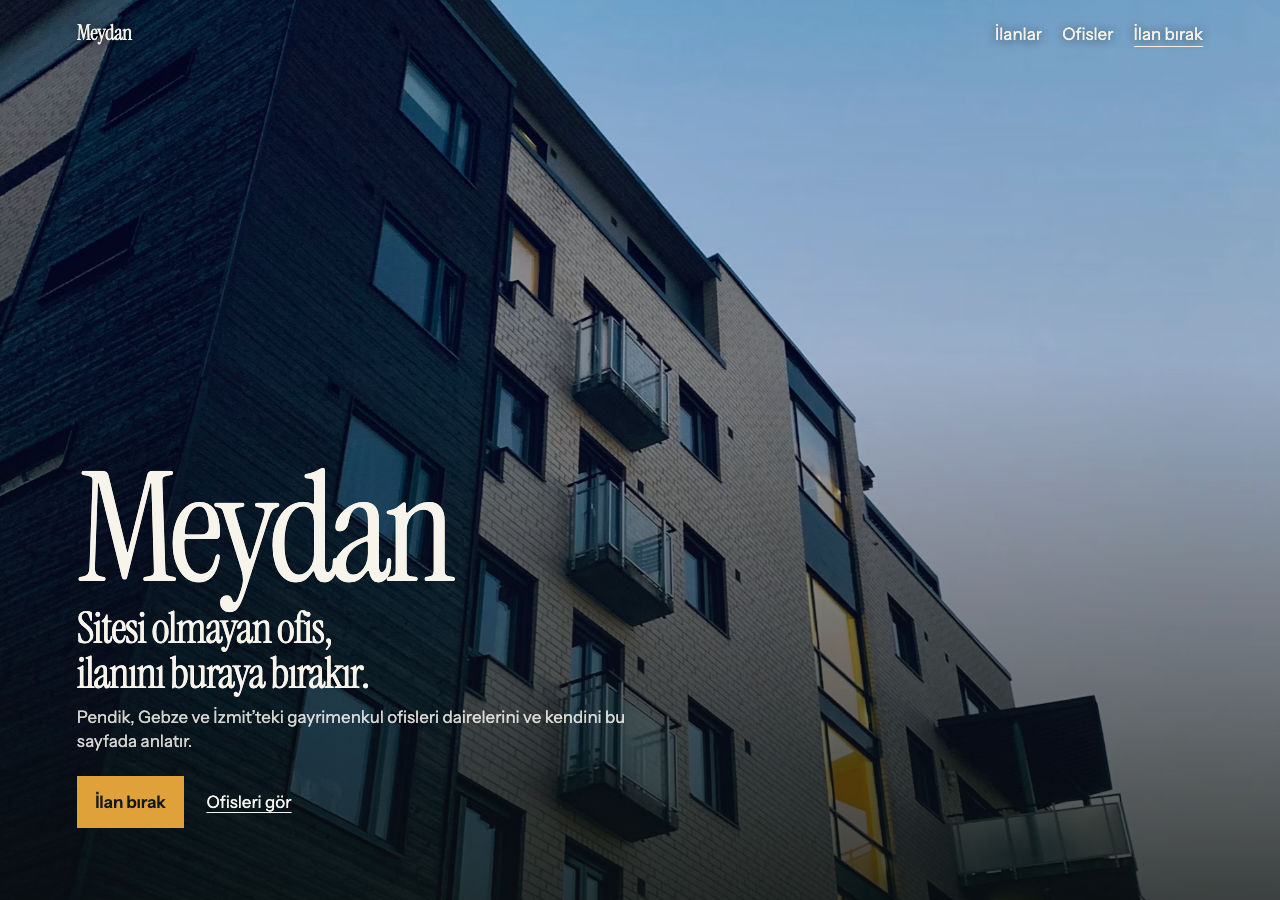
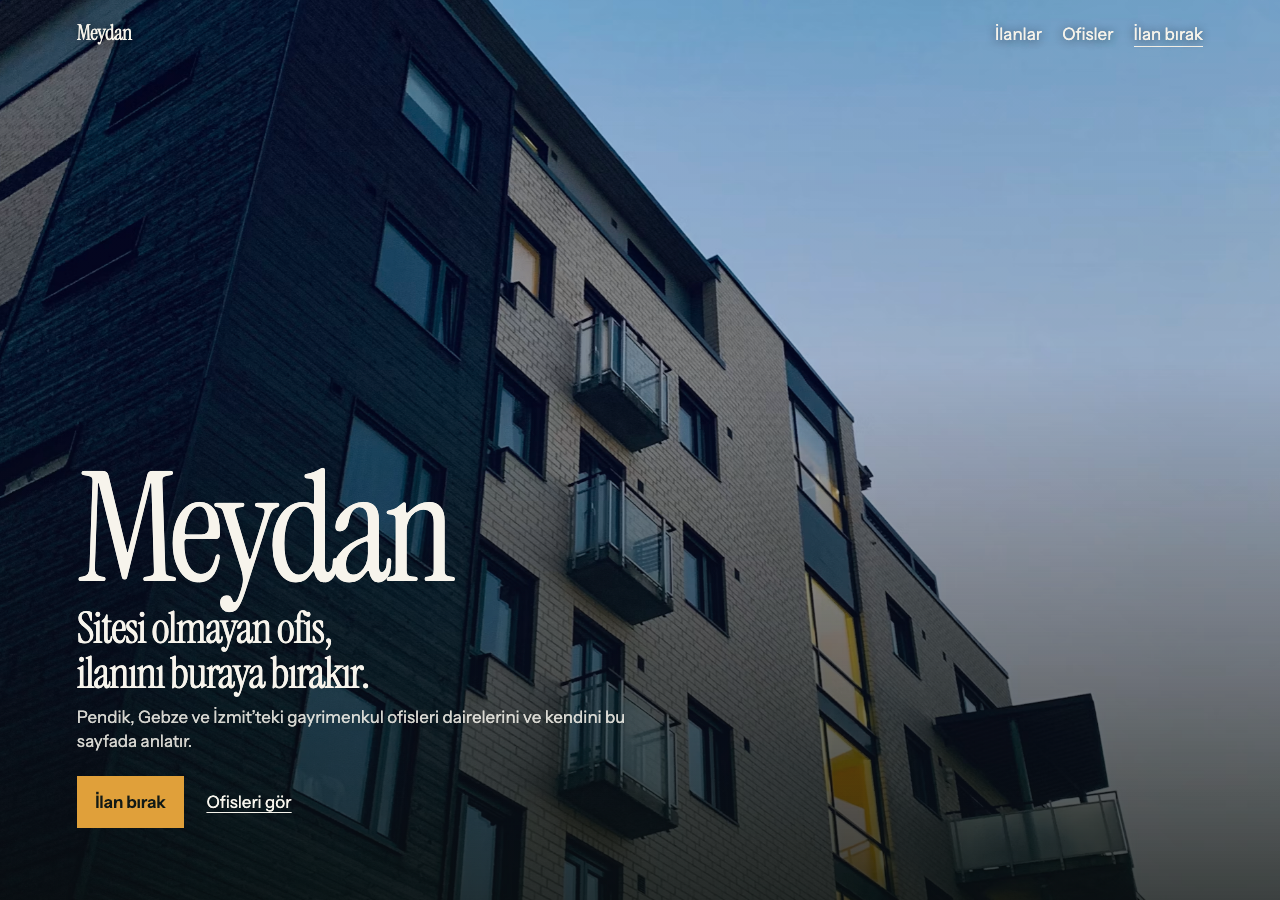
Açıklamayı kurulum ve ekranlarla genişlet.

diff --git a/README.md b/README.md
@@ -1,7 +1,26 @@
 # Meydan
 
-Sitesi olmayan ofislerin ilan yeri.
+Sitesi olmayan ofislerin ortak ilan yeri. Pendik, Gebze ve İzmit’teki ofisler kendini anlatır, satılık veya kiralık daire bırakır.
 
-![Meydan ana sayfa](ekran/ana.png)
+![Kapak](ekran/ana.png)
 
-Statik site. `index.html` tarayıcıda açılır.
+![Ofisler](ekran/ofisler.png)
+
+![Daire bırakma](ekran/form.png)
+
+## Kurulum
+
+Tek klasör, üç dosya.
+
+```bash
+cd meydan-emlak
+python3 -m http.server 8080
+```
+
+Aç: http://127.0.0.1:8080
+
+Sayfa içi bağlantılar `#ilanlar`, `#ofisler` ve `#ilan-ver` bölümlerine iner.
+
+## Nasıl kuruldu
+
+Tek **HTML** sayfası, `styles.css` ve `app.js`. Yazı tipleri **Instrument Serif** ve **Instrument Sans**. Ofis listesi ve ilanlar betiğin içindeki veriden çizilir. Şehir süzgeci İstanbul ve Kocaeli’yi ayırır. Form ofis, başlık, satılık veya kiralık, oda, metrekare, fiyat ve mahalle ister.
